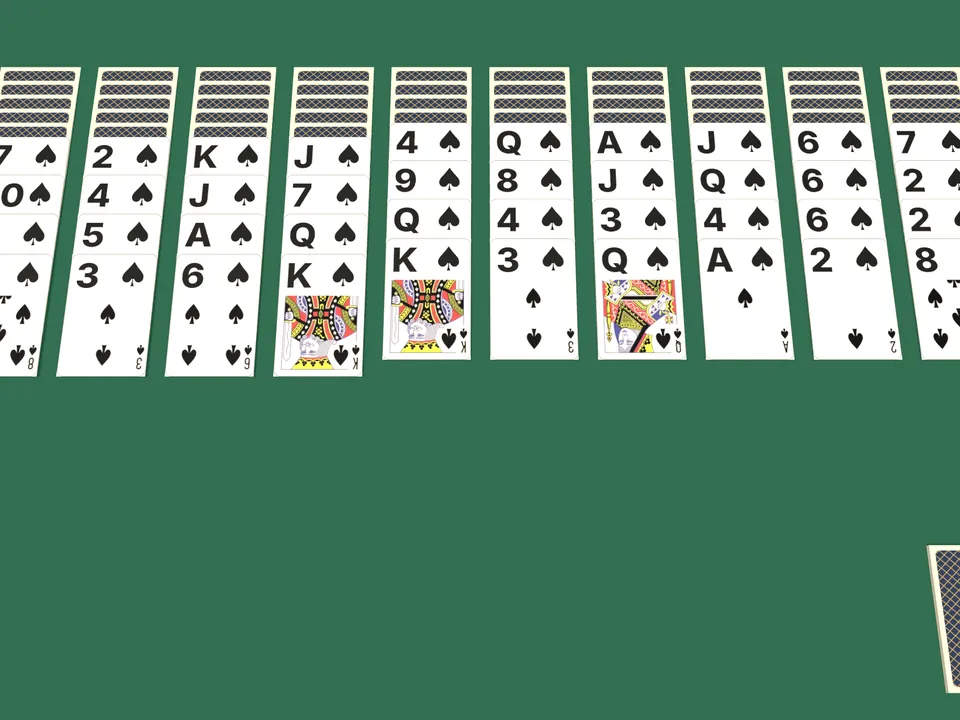
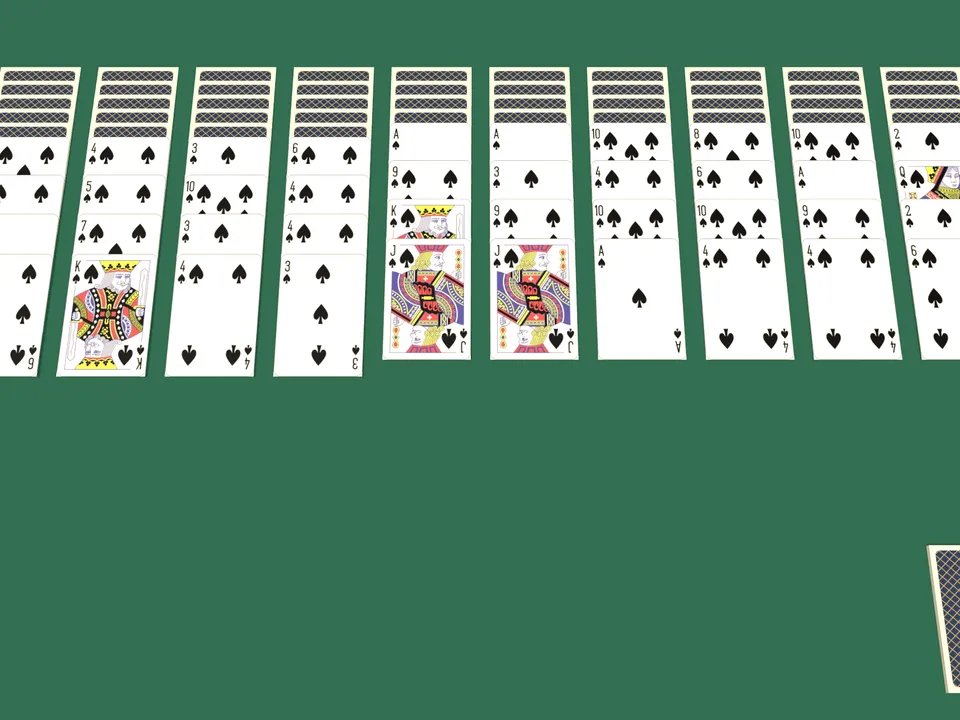
feat: 40-space tour board, flags on title deeds, plain shared faces in spider
- World tour: ten spaces to a side (40), four new cities with their flags
- Title deeds show each place's flag
- Spider uses the shared card faces without the rank band painted over them
- Thumbnails recaptured; the capture script closes leftover dialogs

Claude-Session: https://claude.ai/code/session_01Uedx1uYtd54DPXXtQh77nN

diff --git a/tests/more-games.test.ts b/tests/more-games.test.ts
@@ -279,13 +279,13 @@ describe("Spider solitaire", () => {
 
 describe("World tour", () => {
   const dice = (...faces: number[]) => die(...faces);
-  it("lays out 36 spaces, ten to a side, with cities whose fees rise with every building", () => {
-    expect(T.SPACES).toHaveLength(36);
-    expect(T.SPACES.filter((s) => s.kind === "city")).toHaveLength(26);
-    expect([0, 9, 18, 27].map((i) => T.SPACES[i].name)).toEqual(["출발", "무인도", "인류평화기금", "우주여행"]);
-    expect([T.SPACES[5].name, T.SPACES[28].name, T.SPACES[29].name]).toEqual(["기금 수령", "뉴욕", "콜롬비아호"]);
+  it("lays out 40 spaces, ten to a side, with cities whose fees rise with every building", () => {
+    expect(T.SPACES).toHaveLength(40);
+    expect(T.SPACES.filter((s) => s.kind === "city")).toHaveLength(30);
+    expect([0, 10, 20, 30].map((i) => T.SPACES[i].name)).toEqual(["출발", "무인도", "인류평화기금", "우주여행"]);
+    expect([T.SPACES[5].name, T.SPACES[31].name, T.SPACES[32].name]).toEqual(["기금 수령", "뉴욕", "콜롬비아호"]);
     expect(T.SPACES.filter((s) => s.name === "황금열쇠")).toHaveLength(4);
-    const seoul = T.SPACES[35];
+    const seoul = T.SPACES[39];
     expect([0, 1, 2, 3].map((level) => T.feeOf(seoul, level))).toEqual([670, 1020, 1560, 2370]);
     // One and a half times what was spent, with the units dropped: 60 → 90, 110 + 60 → 250.
     expect(T.feeOf(T.SPACES[7], 1)).toBe(250);
@@ -338,69 +338,69 @@ describe("World tour", () => {
   });
   it("pays the salary past the start; the peace fund is paid in and taken out whole", () => {
     let s = T.createGame(2);
-    s.players[0].at = 16;
+    s.players[0].at = 18;
     s = T.roll(s, dice(1, 1))!;
     // The fund space takes 150; the double rolls again.
-    expect([s.players[0].at, s.players[0].money, s.fund, s.turn]).toEqual([18, 1850, 150, 0]);
-    s.players[1].at = 34;
+    expect([s.players[0].at, s.players[0].money, s.fund, s.turn]).toEqual([20, 1850, 150, 0]);
+    s.players[1].at = 38;
     s.turn = 1;
     s = T.roll(s, dice(3, 4))!;
-    // 34 → 5 passes the start (+200) and collects the fund (+150).
+    // 38 → 5 passes the start (+200) and collects the fund (+150).
     expect([s.players[1].at, s.players[1].money, s.fund]).toEqual([5, 2350, 0]);
   });
   it("holds a traveller on the island for one turn unless a double is rolled", () => {
     let s = T.createGame(2);
-    s.players[0].at = 6;
+    s.players[0].at = 7;
     s = T.roll(s, dice(1, 2))!;
-    expect([s.players[0].at, s.players[0].wait, s.turn, s.phase]).toEqual([9, 1, 0, "end"]);
+    expect([s.players[0].at, s.players[0].wait, s.turn, s.phase]).toEqual([10, 1, 0, "end"]);
     // The other traveller declines Jakarta and passes the dice back.
     const back = T.endTurn(T.decide(T.roll(T.endTurn(s)!, dice(1, 3))!, false)!)!;
     expect(back.turn).toBe(0);
     // No double: the turn is spent on the island.
     const waited = T.roll(back, dice(2, 3))!;
-    expect([waited.players[0].at, waited.players[0].wait, waited.phase]).toEqual([9, 0, "end"]);
+    expect([waited.players[0].at, waited.players[0].wait, waited.phase]).toEqual([10, 0, "end"]);
     // A double leaves at once by that roll, and earns no further roll.
     const escaped = T.roll(back, dice(2, 2))!;
-    expect([escaped.players[0].at, escaped.players[0].wait, escaped.phase, escaped.turn]).toEqual([13, 0, "buy", 0]);
+    expect([escaped.players[0].at, escaped.players[0].wait, escaped.phase, escaped.turn]).toEqual([14, 0, "buy", 0]);
     expect(T.decide(escaped, false)!.phase).toBe("end");
     // An escape ticket is spent instead of waiting.
     let free = T.createGame(2);
-    free.players[0].at = 6;
+    free.players[0].at = 7;
     free.players[0].tickets = 1;
     free = T.roll(free, dice(1, 2))!;
     expect([free.players[0].wait, free.players[0].tickets]).toEqual([0, 0]);
   });
   it("travels from the space port to any space ahead, paying the ship's owner and taking the salary", () => {
     let s = T.createGame(2);
-    s.players[0].at = 23;
+    s.players[0].at = 26;
     s = T.roll(s, dice(1, 3))!;
-    expect([s.players[0].at, s.phase]).toEqual([27, "travel"]);
-    expect(T.travel(s, 27)).toBeNull();
-    expect(T.travel(s, 36)).toBeNull();
+    expect([s.players[0].at, s.phase]).toEqual([30, "travel"]);
+    expect(T.travel(s, 30)).toBeNull();
+    expect(T.travel(s, 40)).toBeNull();
     expect(T.roll(s, dice(1, 1))).toBeNull();
     // Nobody owns the ship: the journey is free. Bangkok lies past the start.
     const free = T.travel(s, 3)!;
     expect([free.players[0].at, free.players[0].money, free.phase, free.path]).toEqual([3, 2200, "buy", [3]]);
     // With the ship in the other traveller's hands the journey costs 200.
-    s.owners[29] = 1;
-    const paid = T.travel(s, 35)!;
-    expect([paid.players[0].at, paid.players[0].money, paid.players[1].money, paid.phase]).toEqual([35, 1800, 2200, "buy"]);
+    s.owners[32] = 1;
+    const paid = T.travel(s, 39)!;
+    expect([paid.players[0].at, paid.players[0].money, paid.players[1].money, paid.phase]).toEqual([39, 1800, 2200, "buy"]);
     // Landing on the ship itself costs its toll; it can be bought but not built on.
     let t = T.createGame(2);
-    t.players[0].at = 27;
-    t.owners[29] = 1;
+    t.players[0].at = 30;
+    t.owners[32] = 1;
     t = T.roll(t, dice(1, 1))!;
     expect([t.players[0].money, t.players[1].money]).toEqual([1800, 2200]);
     let u = T.createGame(2);
-    u.players[0].at = 26;
+    u.players[0].at = 29;
     u = T.decide(T.roll(u, dice(1, 2))!, true)!;
-    expect([u.owners[29], u.players[0].money]).toEqual([0, 1600]);
+    expect([u.owners[32], u.players[0].money]).toEqual([0, 1600]);
     u.turn = 0;
-    u.players[0].at = 26;
+    u.players[0].at = 29;
     u.phase = "roll";
     expect(T.roll(u, dice(1, 2))!.phase).toBe("end");
     // A computer flies to the dearest place it can afford.
-    expect(T.destination(s)).toBe(35);
+    expect(T.destination(s)).toBe(39);
   });
   it("waits for a golden key to be drawn and read before it takes effect", () => {
     let s = T.createGame(2);
@@ -434,13 +434,13 @@ describe("World tour", () => {
     expect([lap.players[0].at, lap.players[0].money]).toEqual([2, 2200]);
     // A journey forward to Paris from a later key passes the start; the dearest place goes at half price.
     let far = T.createGame(2);
-    far.players[0].at = 28;
+    far.players[0].at = 31;
     far = T.roll(far, dice(1, 1))!;
     const paris = T.follow(T.draw(far, card((c) => c.forward === true && T.SPACES[c.to!].name === "파리"))!)!;
-    expect([paris.players[0].at, paris.players[0].money, paris.phase]).toEqual([20, 2200, "buy"]);
-    far.owners[1] = far.owners[35] = 0;
+    expect([paris.players[0].at, paris.players[0].money, paris.phase]).toEqual([22, 2200, "buy"]);
+    far.owners[1] = far.owners[39] = 0;
     const sold = T.follow(T.draw(far, card((c) => !!c.halfSale))!)!;
-    expect([sold.owners[35], sold.owners[1], sold.players[0].money]).toEqual([-1, 0, 2225]);
+    expect([sold.owners[39], sold.owners[1], sold.players[0].money]).toEqual([-1, 0, 2225]);
     // The fund is fed and emptied by cards too.
     const gave = T.follow(T.draw(far, card((c) => !!c.donate))!)!;
     expect([gave.fund, gave.players[0].money]).toEqual([100, 1900]);
@@ -462,12 +462,12 @@ describe("World tour", () => {
   it("sends a traveller to the island on the third double in a row", () => {
     let s = T.createGame(2);
     s.owners[2] = s.owners[4] = 1;
-    s.players[0].at = 14;
-    // 14 → 18 (festival), 18 → 22 (London, declined), then a third double.
+    s.players[0].at = 16;
+    // 16 → 20 (the fund), 20 → 24 (London, declined), then a third double.
     s = T.roll(s, dice(2, 2))!;
-    expect([s.players[0].at, s.turn, s.doubles]).toEqual([18, 0, 1]);
+    expect([s.players[0].at, s.turn, s.doubles]).toEqual([20, 0, 1]);
     s = T.decide(T.roll(s, dice(2, 2))!, false)!;
-    expect([s.players[0].at, s.turn, s.doubles]).toEqual([22, 0, 2]);
+    expect([s.players[0].at, s.turn, s.doubles]).toEqual([24, 0, 2]);
     s = T.roll(s, dice(5, 5))!;
     expect([s.players[0].at, s.players[0].wait, s.turn, s.phase]).toEqual([T.ISLAND, 1, 0, "end"]);
     expect([T.endTurn(s)!.turn, T.endTurn(s)!.doubles]).toEqual([1, 0]);
@@ -475,11 +475,11 @@ describe("World tour", () => {
   });
   it("sells cities to cover a debt, and the last traveller with money wins", () => {
     let s = T.createGame(2);
-    s.owners[35] = 1;
-    s.levels[35] = 3;
+    s.owners[39] = 1;
+    s.levels[39] = 3;
     s.owners[1] = 0;
     s.players[0].money = 100;
-    s.players[0].at = 32;
+    s.players[0].at = 36;
     s = T.roll(s, dice(1, 2))!;
     // The fee is 2370: Hanoi is sold for 30 and it is still not enough.
     expect(s.players[0].out).toBe(true);

diff --git a/src/ui/tour.ts b/src/ui/tour.ts
@@ -1,6 +1,7 @@
 import { mirrorStatus } from "./banner";
 import { modal, setupDialog } from "./dialog";
 import { PLAYER_COLORS, TourView } from "../games/tour/view";
+import { drawFlag } from "../games/tour/flags";
 import {
   LEVELS,
   ROUNDS,
@@ -46,6 +47,20 @@ interface Navigation {
 export interface TourController {
   dispose(): void;
   setSettings(settings: Settings): void;
+}
+const flagImages = new Map<string, string>();
+/** A country's flag as an image for the page, drawn once. */
+function flagImage(country: string) {
+  let url = flagImages.get(country);
+  if (!url) {
+    const canvas = document.createElement("canvas");
+    canvas.width = 96;
+    canvas.height = 64;
+    drawFlag(canvas.getContext("2d")!, country, 0, 0, 96, 64);
+    url = canvas.toDataURL();
+    flagImages.set(country, url);
+  }
+  return url;
 }
 const NAMES = ["나", "컴퓨터 1", "컴퓨터 2", "컴퓨터 3"];
 const won = (n: number) => n.toLocaleString("ko-KR");
@@ -208,7 +223,7 @@ export function mountTour(root: HTMLElement, nav: Navigation, random: Random = c
           const space = SPACES[i],
             back = Math.round(invested(state, i) / 2),
             fee = space.kind === "ship" ? SHIP_TOLL : feeOf(space, state.levels[i]);
-          return `<li><span><b>${space.name}</b> ${space.kind === "ship" ? "우주선" : LEVELS[state.levels[i]]}<small>${space.kind === "ship" ? "통행료" : "숙박료"} ${won(fee)} · 들인 돈 ${won(invested(state, i))}</small></span>${selling ? `<button data-sell="${i}">팔기 (+${won(back)})</button>` : ""}</li>`;
+          return `<li>${space.kind === "ship" ? '<i class="deed-flag ship" aria-hidden="true">🚀</i>' : `<img class="deed-flag" src="${flagImage(space.country)}" alt="">`}<span><b>${space.name}</b> ${space.kind === "ship" ? "우주선" : LEVELS[state.levels[i]]}<small>${space.kind === "ship" ? "통행료" : "숙박료"} ${won(fee)} · 들인 돈 ${won(invested(state, i))}</small></span>${selling ? `<button data-sell="${i}">팔기 (+${won(back)})</button>` : ""}</li>`;
         })
         .join("");
     modal(

diff --git a/src/games/tour/rules.ts b/src/games/tour/rules.ts
@@ -23,6 +23,7 @@ export interface Space {
 }
 const city = (name: string, price: number, group: number, country: string): Space => ({ kind: "city", name, price, group, country });
 const special = (kind: Kind, name: string): Space => ({ kind, name, price: 0, group: -1, country: "" });
+// Forty spaces, ten to a side: the corners are 0, 10, 20 and 30.
 export const SPACES: Space[] = [
   special("start", "출발"),
   city("하노이", 60, 0, "VN"),
@@ -33,6 +34,7 @@ export const SPACES: Space[] = [
   city("싱가포르", 100, 0, "SG"),
   city("뭄바이", 110, 0, "IN"),
   city("두바이", 120, 1, "AE"),
+  city("라고스", 130, 1, "NG"),
   special("storm", "무인도"),
   city("이스탄불", 140, 1, "TR"),
   city("카이로", 150, 1, "EG"),
@@ -42,6 +44,7 @@ export const SPACES: Space[] = [
   city("아테네", 200, 2, "GR"),
   city("로마", 220, 2, "IT"),
   city("암스테르담", 230, 2, "NL"),
+  city("빈", 235, 2, "AT"),
   special("fund", "인류평화기금"),
   city("바르셀로나", 240, 2, "ES"),
   city("파리", 260, 2, "FR"),
@@ -49,6 +52,7 @@ export const SPACES: Space[] = [
   city("런던", 280, 2, "GB"),
   city("베를린", 300, 2, "DE"),
   city("스톡홀름", 320, 2, "SE"),
+  city("바르샤바", 325, 2, "PL"),
   city("멕시코시티", 330, 3, "MX"),
   city("리마", 340, 3, "PE"),
   special("space", "우주여행"),
@@ -57,6 +61,7 @@ export const SPACES: Space[] = [
   special("luck", "황금열쇠"),
   city("리우", 360, 3, "BR"),
   city("부에노스아이레스", 380, 3, "AR"),
+  city("토론토", 400, 3, "CA"),
   city("시드니", 420, 3, "AU"),
   city("도쿄", 440, 0, "JP"),
   city("서울", 450, 0, "KR"),

diff --git a/src/games/spider/view.ts b/src/games/spider/view.ts
@@ -190,21 +190,8 @@ export class SpiderView {
     const key = faceOf(card);
     let material = this.faces.get(key);
     if (!material) {
-      // Stacked cards show only their top strip: it carries the rank and suit, large, across its whole width.
-      material = this.paint((ctx, w, h) => {
-        drawFace(ctx, w, h, key);
-        const band = h * 0.33;
-        ctx.fillStyle = "#ffffff";
-        ctx.fillRect(8, 8, w - 16, band);
-        ctx.fillStyle = card.suit % 2 ? "#c8321f" : "#16181a";
-        ctx.textBaseline = "middle";
-        ctx.textAlign = "left";
-        ctx.font = `800 ${band * 0.86}px "Helvetica Neue", Arial, sans-serif`;
-        ctx.fillText(RANK_NAMES[card.rank], 20, 8 + band * 0.54, w * 0.52);
-        ctx.textAlign = "right";
-        ctx.font = `${band * 0.86}px "Segoe UI Symbol", "Apple Symbols", "DejaVu Sans", sans-serif`;
-        ctx.fillText(["♠", "♥", "♣", "♦"][card.suit], w - 20, 8 + band * 0.54);
-      });
+      // The same faces as the other card games, untouched.
+      material = this.paint((ctx, w, h) => drawFace(ctx, w, h, key));
       this.faces.set(key, material);
     }
     return material;

diff --git a/src/games/tour/flags.ts b/src/games/tour/flags.ts
@@ -133,6 +133,9 @@ const FLAGS: Record<string, (ctx: Ctx, x: number, y: number, w: number, h: numbe
     for (const [sx, sy] of [[0.36, 0.14], [0.31, 0.3], [0.41, 0.3], [0.33, 0.22], [0.39, 0.22]]) star(c, x + w * sx, y + h * sy, h * 0.035, "#ffffff");
   },
   NL: (c, x, y, w, h) => bands(c, x, y, w, h, ["#ae1c28", "#ffffff", "#21468b"]),
+  NG: (c, x, y, w, h) => bands(c, x, y, w, h, ["#008751", "#ffffff", "#008751"], true),
+  AT: (c, x, y, w, h) => bands(c, x, y, w, h, ["#ed2939", "#ffffff", "#ed2939"]),
+  PL: (c, x, y, w, h) => bands(c, x, y, w, h, ["#ffffff", "#dc143c"]),
   PE: (c, x, y, w, h) => bands(c, x, y, w, h, ["#d91023", "#ffffff", "#d91023"], true),
   JP: (c, x, y, w, h) => (bands(c, x, y, w, h, ["#ffffff"]), disc(c, x + w / 2, y + h / 2, h * 0.3, "#bc002d")),
   KR: (c, x, y, w, h) => {

diff --git a/src/games/tour/view.ts b/src/games/tour/view.ts
@@ -4,11 +4,11 @@ import { FOV, cameraDistance, type Subject } from "../../engine/camera";
 import { SPACES, type State } from "./rules";
 import { drawFlag } from "./flags";
 
-export const TOUR_SUBJECT: Subject & { tilt: number } = { half: 6.6, halfZ: 6.6, height: 1.6, lookY: 0, tilt: 0.98 };
+export const TOUR_SUBJECT: Subject & { tilt: number } = { half: 7.3, halfZ: 7.3, height: 1.6, lookY: 0, tilt: 0.98 };
 export const PLAYER_COLORS = ["#d2452f", "#2f62c0", "#3f9a5a", "#e0a020"];
 const GROUPS = ["#e26a4a", "#d9a441", "#4a8fd0", "#57a56b"],
   // Ten spaces along each side, corners included.
-  SIDE = 9,
+  SIDE = 10,
   STEP = 1.3,
   REACH = (SIDE * STEP) / 2;
 /** Centre of a space: 0 is the near right corner and the road runs clockwise seen from above. */

diff --git a/src/style.css b/src/style.css
@@ -2116,3 +2116,7 @@ dialog .deed-list button:hover { background: var(--ink); color: var(--paper); }
 @media (prefers-reduced-motion: reduce) { .tour-toast { animation:none; } }
 .tour-short { color:#a3402c;font-weight:600; }
 @media (max-width: 760px) { .board-area .tour-end { right:10px;bottom:44px;padding:11px 20px;font-size:15px; } .tour-toast { font-size:20px;padding:10px 20px; } }
+
+.deed-list li { align-items:center; }
+.deed-flag { flex:none;width:48px;height:32px;margin-right:12px;border-radius:4px;box-shadow:0 0 0 1px rgba(0,0,0,.18);object-fit:cover; }
+.deed-flag.ship { display:grid;place-items:center;font-style:normal;font-size:20px;background:#141a33; }

diff --git a/AGENTS.md b/AGENTS.md
@@ -38,7 +38,7 @@
 - Hexa germ war, nine men's morris and gonu are `PointGame`s (`src/games/points/types.ts`): rules in `src/games/{hexa,morris,gonu}/rules.ts`, a `BoardSpec` in `board.ts`, texts in `config.ts`; they share `points/ai.ts`, `points/view.ts` and `src/ui/point-game.ts`. A new game of this kind supplies those three files; do not fork the screen. Their computer has three levels (`LEVELS` in `points/ai.ts`). Gonu marks only the piece picked up, never every movable piece (`showMovable: false`; the user asked for this). Cham gonu runs on the morris rules with corners joined (`inner`). A move is `{from, to, extra}` chosen in that order, and the view animates only what `effect` reports. `hanokYard` in `scenery.ts` is shared by yut and gonu.
 - Checkers, dots and boxes, hex, mancala and snakes and ladders are `PointGame`s too. A game drawn its own way passes `view` (a `PointView`) instead of `board`, with `colors` and `keyPoints`; dots and hex share `PaperView` (`src/games/paper/view.ts`, repainted on a canvas). Games of chance draw from the `random` passed to `play`; `action` adds a button for a single legal move.
 - Spider solitaire (`src/games/spider/`, `src/ui/spider.ts`) and the world tour (`src/games/tour/`, `src/ui/tour.ts`) have their own screens. Layout numbers shared with browser tests live in files free of Vite-only imports (`spider/layout.ts`), because `faces.ts` uses `import.meta.glob`.
-- The world tour is an original property game: do not copy the board, city list, cards or names of an existing product. Its flags are drawn in `tour/flags.ts`; buildings are pieces set down one beside the other (`raise`). The names 황금열쇠 and 무인도 for the card and waiting spaces were asked for by the user; everything else stays its own. Likewise 우주여행, 콜롬비아호 and 인류평화기금 and their rules. A golden key is drawn (`draw`), turned over on the board (`revealCard`), read, then carried out (`follow`); my own choices (buy, build, travel) are put in dialogs by `ask`, and a computer's card is shown in a dialog that closes by itself. A traveller's deeds open from the side list (`deeds`); `sell` works only in the owner's turn. Its cash, sparkle, wave and space sounds are synthesised in `sound.ts`. Spider cards move by drag and drop only (`onDrop`), never by a bare tap.
+- The world tour is an original property game: do not copy the board, city list, cards or names of an existing product. Its flags are drawn in `tour/flags.ts`; buildings are pieces set down one beside the other (`raise`). The names 황금열쇠 and 무인도 for the card and waiting spaces were asked for by the user; everything else stays its own. Likewise 우주여행, 콜롬비아호 and 인류평화기금 and their rules. A golden key is drawn (`draw`), turned over on the board (`revealCard`), read, then carried out (`follow`); my own choices (buy, build, travel) are put in dialogs by `ask`, and a computer's card is shown in a dialog that closes by itself. A traveller's deeds open from the side list (`deeds`); `sell` works only in the owner's turn. Its cash, sparkle, wave and space sounds are synthesised in `sound.ts`. Spider cards move by drag and drop only (`onDrop`), never by a bare tap, and show the shared faces untouched (no rank band painted over them: the user asked). The tour board has 40 spaces, ten to a side (`SIDE = 10`); deeds show each place's flag (`drawFlag`).
 - Collection thumbnails are captures of each game's own canvas (`src/assets/thumbs/<id>.webp`, via `src/ui/thumbs.ts`); after changing how a table looks, recapture with `scripts/capture-thumbs.mjs` (against `vite preview --port 4175`) and reduce to 960×720 WebP. The script sets `data-capture` on `<html>`; screens that draw selection marks must leave them out while `capturing()` (`src/ui/banner.ts`) is true. A new game needs its own capture.
 - Recorded sounds under `src/engine/sounds/` are CC0 (Kenney); keep `public/sound-license.txt` and the synthesised fallback.
 

diff --git a/README.md b/README.md
@@ -224,7 +224,7 @@ CHROMIUM_PATH=/usr/bin/chromium npm run test:e2e
 
 주사위를 굴려 세계의 도시를 돌며 땅을 사고 건물을 올려 숙박료를 받는 2–4인(나 + 컴퓨터 1–3명) 놀이입니다. 같은 갈래의 기존 상품을 그대로 옮기지 않고, 도시 목록·칸 구성·행운 카드·값을 이 게임을 위해 새로 정했습니다.
 
-- 판은 한 변에 열 칸씩 36칸입니다: 도시 26곳(칸마다 그 나라 국기), 콜롬비아호, 출발·황금열쇠 4곳·기금 수령·무인도·인류평화기금·우주여행.
+- 판은 10×10 크기로 한 변에 열 칸씩 모두 40칸입니다(모서리는 0·10·20·30번): 도시 30곳(칸마다 그 나라 국기), 콜롬비아호, 출발·황금열쇠 4곳·기금 수령·무인도·인류평화기금·우주여행.
 - 사기·짓기·우주여행의 갈 곳은 창이 떠서 묻습니다(창을 닫았으면 옆 패널의 버튼으로 다시 고를 수 있습니다).
 - 황금열쇠 칸에 서면 판 위의 황금열쇠 카드 더미를 눌러 한 장을 뽑습니다. 카드가 더미에서 떠올라 뒤집힌 뒤 내용이 창으로 나오고, 확인을 누르면 그대로 따릅니다. 카드는 31가지입니다: 상금과 벌금, 다른 칸으로 가기(출발·무인도·우주여행·서울·파리, 한 바퀴 도는 세계 일주 초대권, 앞뒤로 몇 칸), 건물 수리비·재산세·반값 매각, 다른 여행자와 주고받기, 인류평화기금 기부·배당, 그리고 갖고 있다가 저절로 쓰는 **무인도 탈출권**과 **우대권**(숙박료·통행료 한 번 면제). 종류는 이 갈래 놀이에서 흔한 것들을 참고했고 문구와 금액은 따로 지었습니다.
 - 주인 없는 도시에 서면 살 수 있고, 내 도시에 다시 서면 건물 말을 하나씩 세웁니다: 집 → 빌딩 → 랜드마크. 세 가지는 서로 다른 모양의 3D 말이며 칸 안쪽 가장자리에 나란히 놓입니다. 땅만 있을 때는 주인의 깃발이 꽂힙니다.
